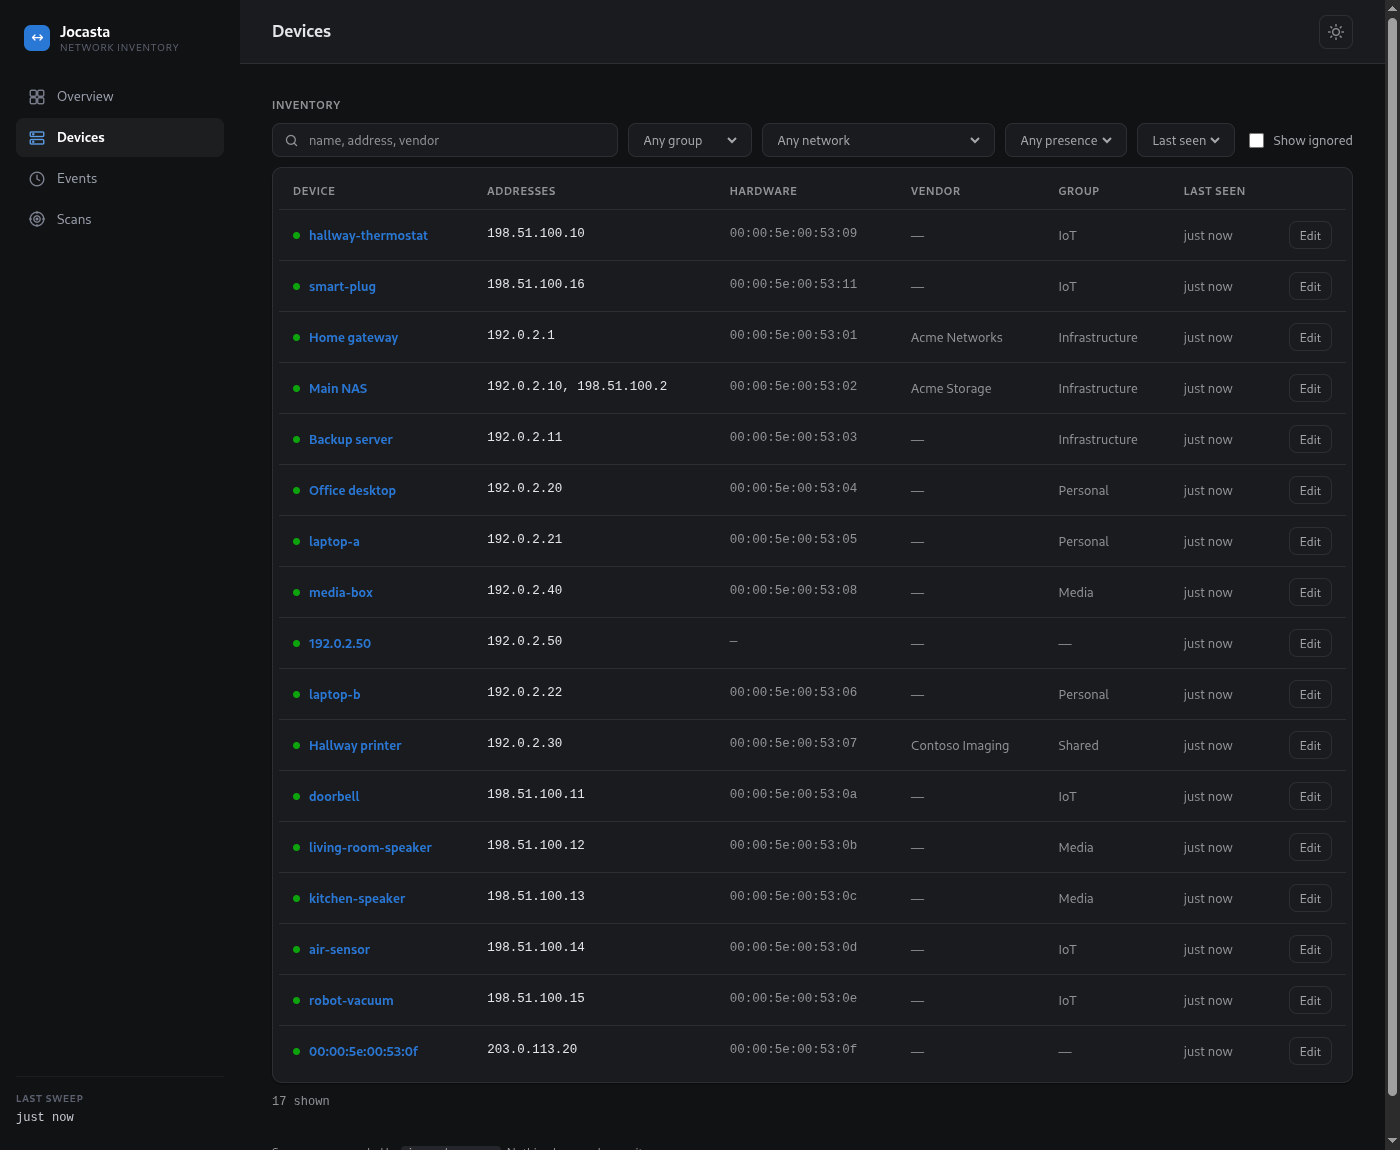
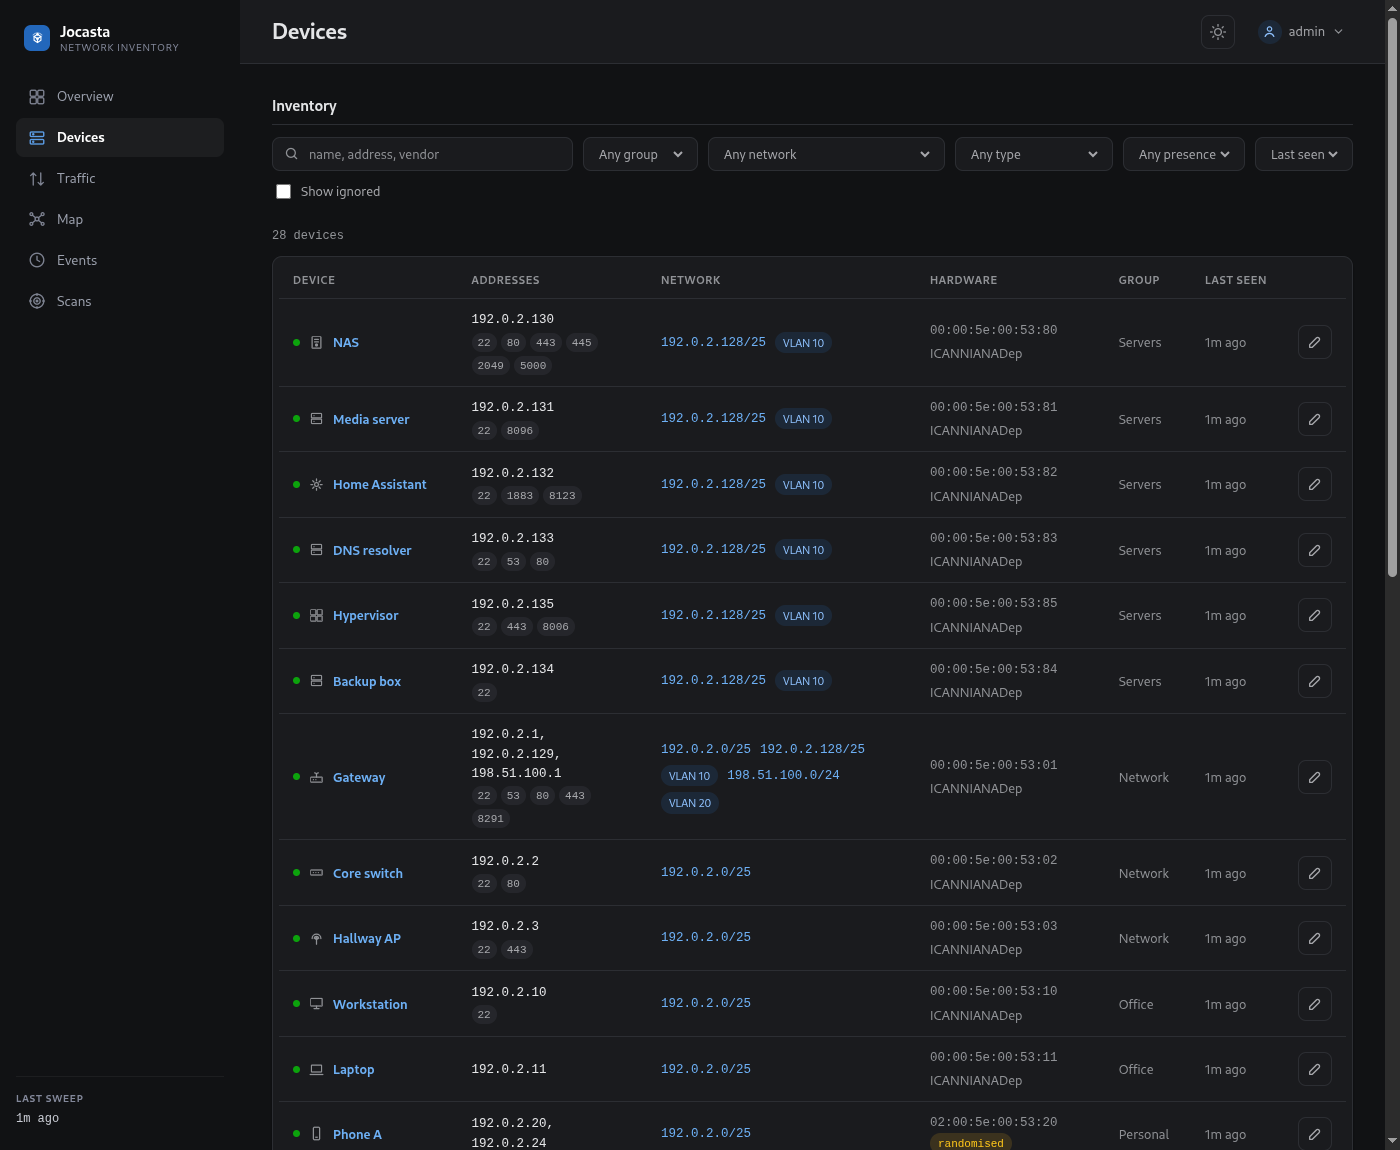
docs: say what each feature needs, refresh screenshots
The README's feature table gets a Needs column and lists the sources supported today. The screenshots are retaken on a fabricated network that includes traffic, and new ones cover the Traffic page and the Map.

diff --git a/README.md b/README.md
@@ -33,17 +33,17 @@ Jocasta identifies a device by its hardware (MAC) address rather than its IP.
 An IP is treated as a lease the device currently holds, so the label, group and
 notes you attach to a device stay with it when the address changes.
 
-Alongside its own network sweep, Jocasta reads the ARP and DHCP tables from
-your router. The router sees every network segment, so devices that a
-single-machine scan would miss are identified properly, with a vendor and a
-name.
+On its own, Jocasta sweeps the networks you name. Connect your router and it
+also reads the router's ARP and DHCP tables. The router sees every network
+segment, so devices that a single-machine scan would miss are identified
+properly, with a vendor and a name.
 
 Every device discovered, every address gained or dropped, and every rename is
 written to a change log you can review. Jocasta looks at the network only when
 you tell it to, on a schedule you set or on demand. It does not scan
 continuously.
 
-If your router exports flow records (NetFlow or IPFIX), Jocasta also records
+If your router also exports flow records (NetFlow or IPFIX), Jocasta records
 who each device talks to: the other devices on your network and the
 organisations and countries on the internet. It keeps hourly totals per device,
 never individual connections, and points out devices that probe the network and
@@ -51,18 +51,29 @@ what the internet tried to reach.
 
 ## What you get
 
-| | |
-|---|---|
-| Device inventory | Every device, its addresses, the segment each address is on, its vendor and name, and when it was last seen. |
-| Your own labels | Give a device a label, a group and notes, or mark it to ignore. Scans never overwrite these. |
-| Network view | Each segment, and its VLAN, as its own page with the devices on it. |
-| Change log | A timestamped record of discoveries, moves and renames, per device and across the whole network. |
-| Traffic | Who each device talks to, on your network and on the internet, over the last day, week or month. Also shows what the internet reached or tried to reach, and devices that scan the network. Needs your router's flow exports. |
-| Map | The last hour's traffic as a live tree, from the router out to each network, device and organisation, and a world map of the countries the network talked to. |
-| Web interface | Overview dashboard, searchable and filterable device list, per-device and per-network pages, light and dark themes. |
-| API | A JSON API over the same data, for scripts and dashboards. |
-| MCP server | An optional [MCP](https://modelcontextprotocol.io) endpoint, so AI agents such as Claude Code can query the inventory, triage devices and report on changes. |
-| Self-contained | A single binary with an embedded database. No separate services to run. |
+Some features only work once you connect a source. The **Needs** column says
+which.
+
+| | | Needs |
+|---|---|---|
+| Device inventory | Every device, its addresses, the segment each address is on, its vendor and name, and when it was last seen. | Nothing. Without the router, only devices on Jocasta's own segment get a hardware address, vendor and name. |
+| Your own labels | Give a device a label, a group and notes, or mark it to ignore. Scans never overwrite these. | Nothing |
+| Network view | Each segment as its own page with the devices on it. | Nothing. Segment names and VLAN tags come from the router. |
+| Change log | A timestamped record of discoveries, moves and renames, per device and across the whole network. | Nothing |
+| Open ports | Which TCP ports each device listens on, and when that changes. | Port scanning turned on |
+| Traffic | Who each device talks to, on your network and on the internet, over the last day, week or month. Also shows what the internet reached or tried to reach, and devices that scan the network. | Router flow exports |
+| Map | The last hour's traffic as a live tree, from the router out to each network, device and organisation, and a world map of the countries the network talked to. | Router flow exports |
+| Web interface | Overview dashboard, searchable and filterable device list, per-device and per-network pages, light and dark themes. | Nothing |
+| API | A JSON API over the same data, for scripts and dashboards. | Nothing |
+| MCP server | An [MCP](https://modelcontextprotocol.io) endpoint, so AI agents such as Claude Code can query the inventory, triage devices and report on changes. | Turned on in config |
+| Self-contained | A single binary with an embedded database. No separate services to run. | |
+
+Sources supported today:
+
+- **Router tables:** MikroTik RouterOS, read over its REST API. See
+  [Reading your router](docs/setup.md#reading-your-router).
+- **Router flow exports:** any router that sends NetFlow v5, v9 or IPFIX. See
+  [Seeing who devices talk to](docs/setup.md#seeing-who-devices-talk-to).
 
 More screenshots: [docs/ui.md](docs/ui.md).
 

diff --git a/docs/ui.md b/docs/ui.md
@@ -5,7 +5,8 @@ Pages are server-rendered; htmx handles in-place updates and the periodic
 refresh.
 
 The screenshots below use synthetic data: addresses from RFC 5737, hardware
-addresses from RFC 7042, invented names.
+addresses from RFC 7042, invented names. The internet peers are well-known
+public services, so their organisations resolve.
 
 ## Overview
 
@@ -89,10 +90,13 @@ tried 20 or more addresses on your network, or 20 or more ports on one of
 them, without the connections carrying data: what a scan looks like. A host
 you run scans from appears there too.
 
+![Traffic page](img/traffic.png)
+
 ## Map
 
-The Map draws the last hour's traffic as a tree. The router is in the
-middle, with a hub for each network and one for the internet around it. Each
+When traffic collection is set up, the Map draws the last hour's traffic as
+a tree. The router is in the middle, with a hub for each network and one for
+the internet around it. Each
 network's devices, and the internet's organisations, fan out around their
 hub. A branch is thicker the more traffic passed along it, and moves when
 anything under it was active in the last 15 minutes. The page redraws itself
@@ -112,6 +116,8 @@ search are kept across each redraw, and devices keep their place. The legend
 in the top right names each network's colour with its device count; pointing
 at one picks its devices out. The busiest 60 devices and 12 organisations are
 drawn, and each device links to its page.
+
+![Map](img/map.png)
 
 The World tab places the same hour's internet traffic on a map of the world.
 A country is shaded darker the more

diff --git a/docs/development.md b/docs/development.md
@@ -32,4 +32,5 @@ Queries are SQLC-generated from `internal/db/queries/`. The schema is in
 
 The images in [`docs/ui.md`](ui.md) are taken against a database of fabricated
 devices, never real network data: addresses from RFC 5737, hardware addresses
-from RFC 7042, invented names.
+from RFC 7042, invented names. Internet peers are well-known public services,
+so their organisations and countries resolve.
